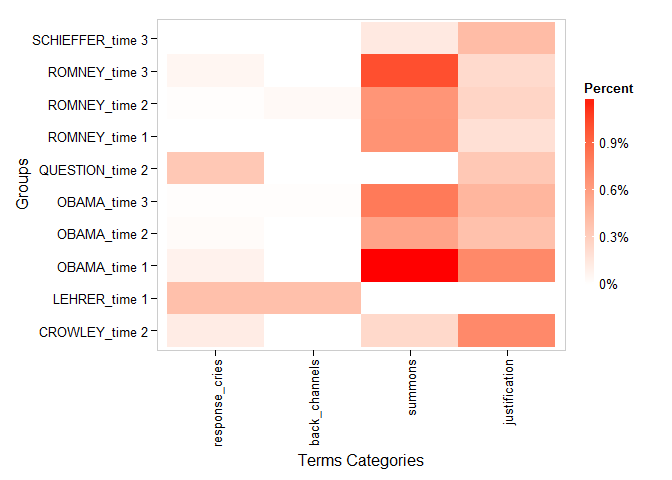
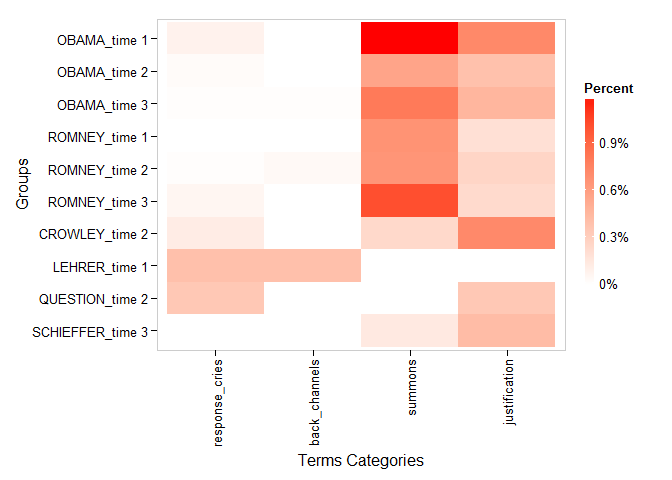
plot.term_count now respects the order of term_count's output

diff --git a/README.md b/README.md
@@ -740,7 +740,7 @@ to return all tags.
 
     ## .
     ##  back_channels  justification response_cries        summons 
-    ##              6            127             16            230
+    ##              6            126             16            231
 
     classify(model) %>%
         unlist() %>%
